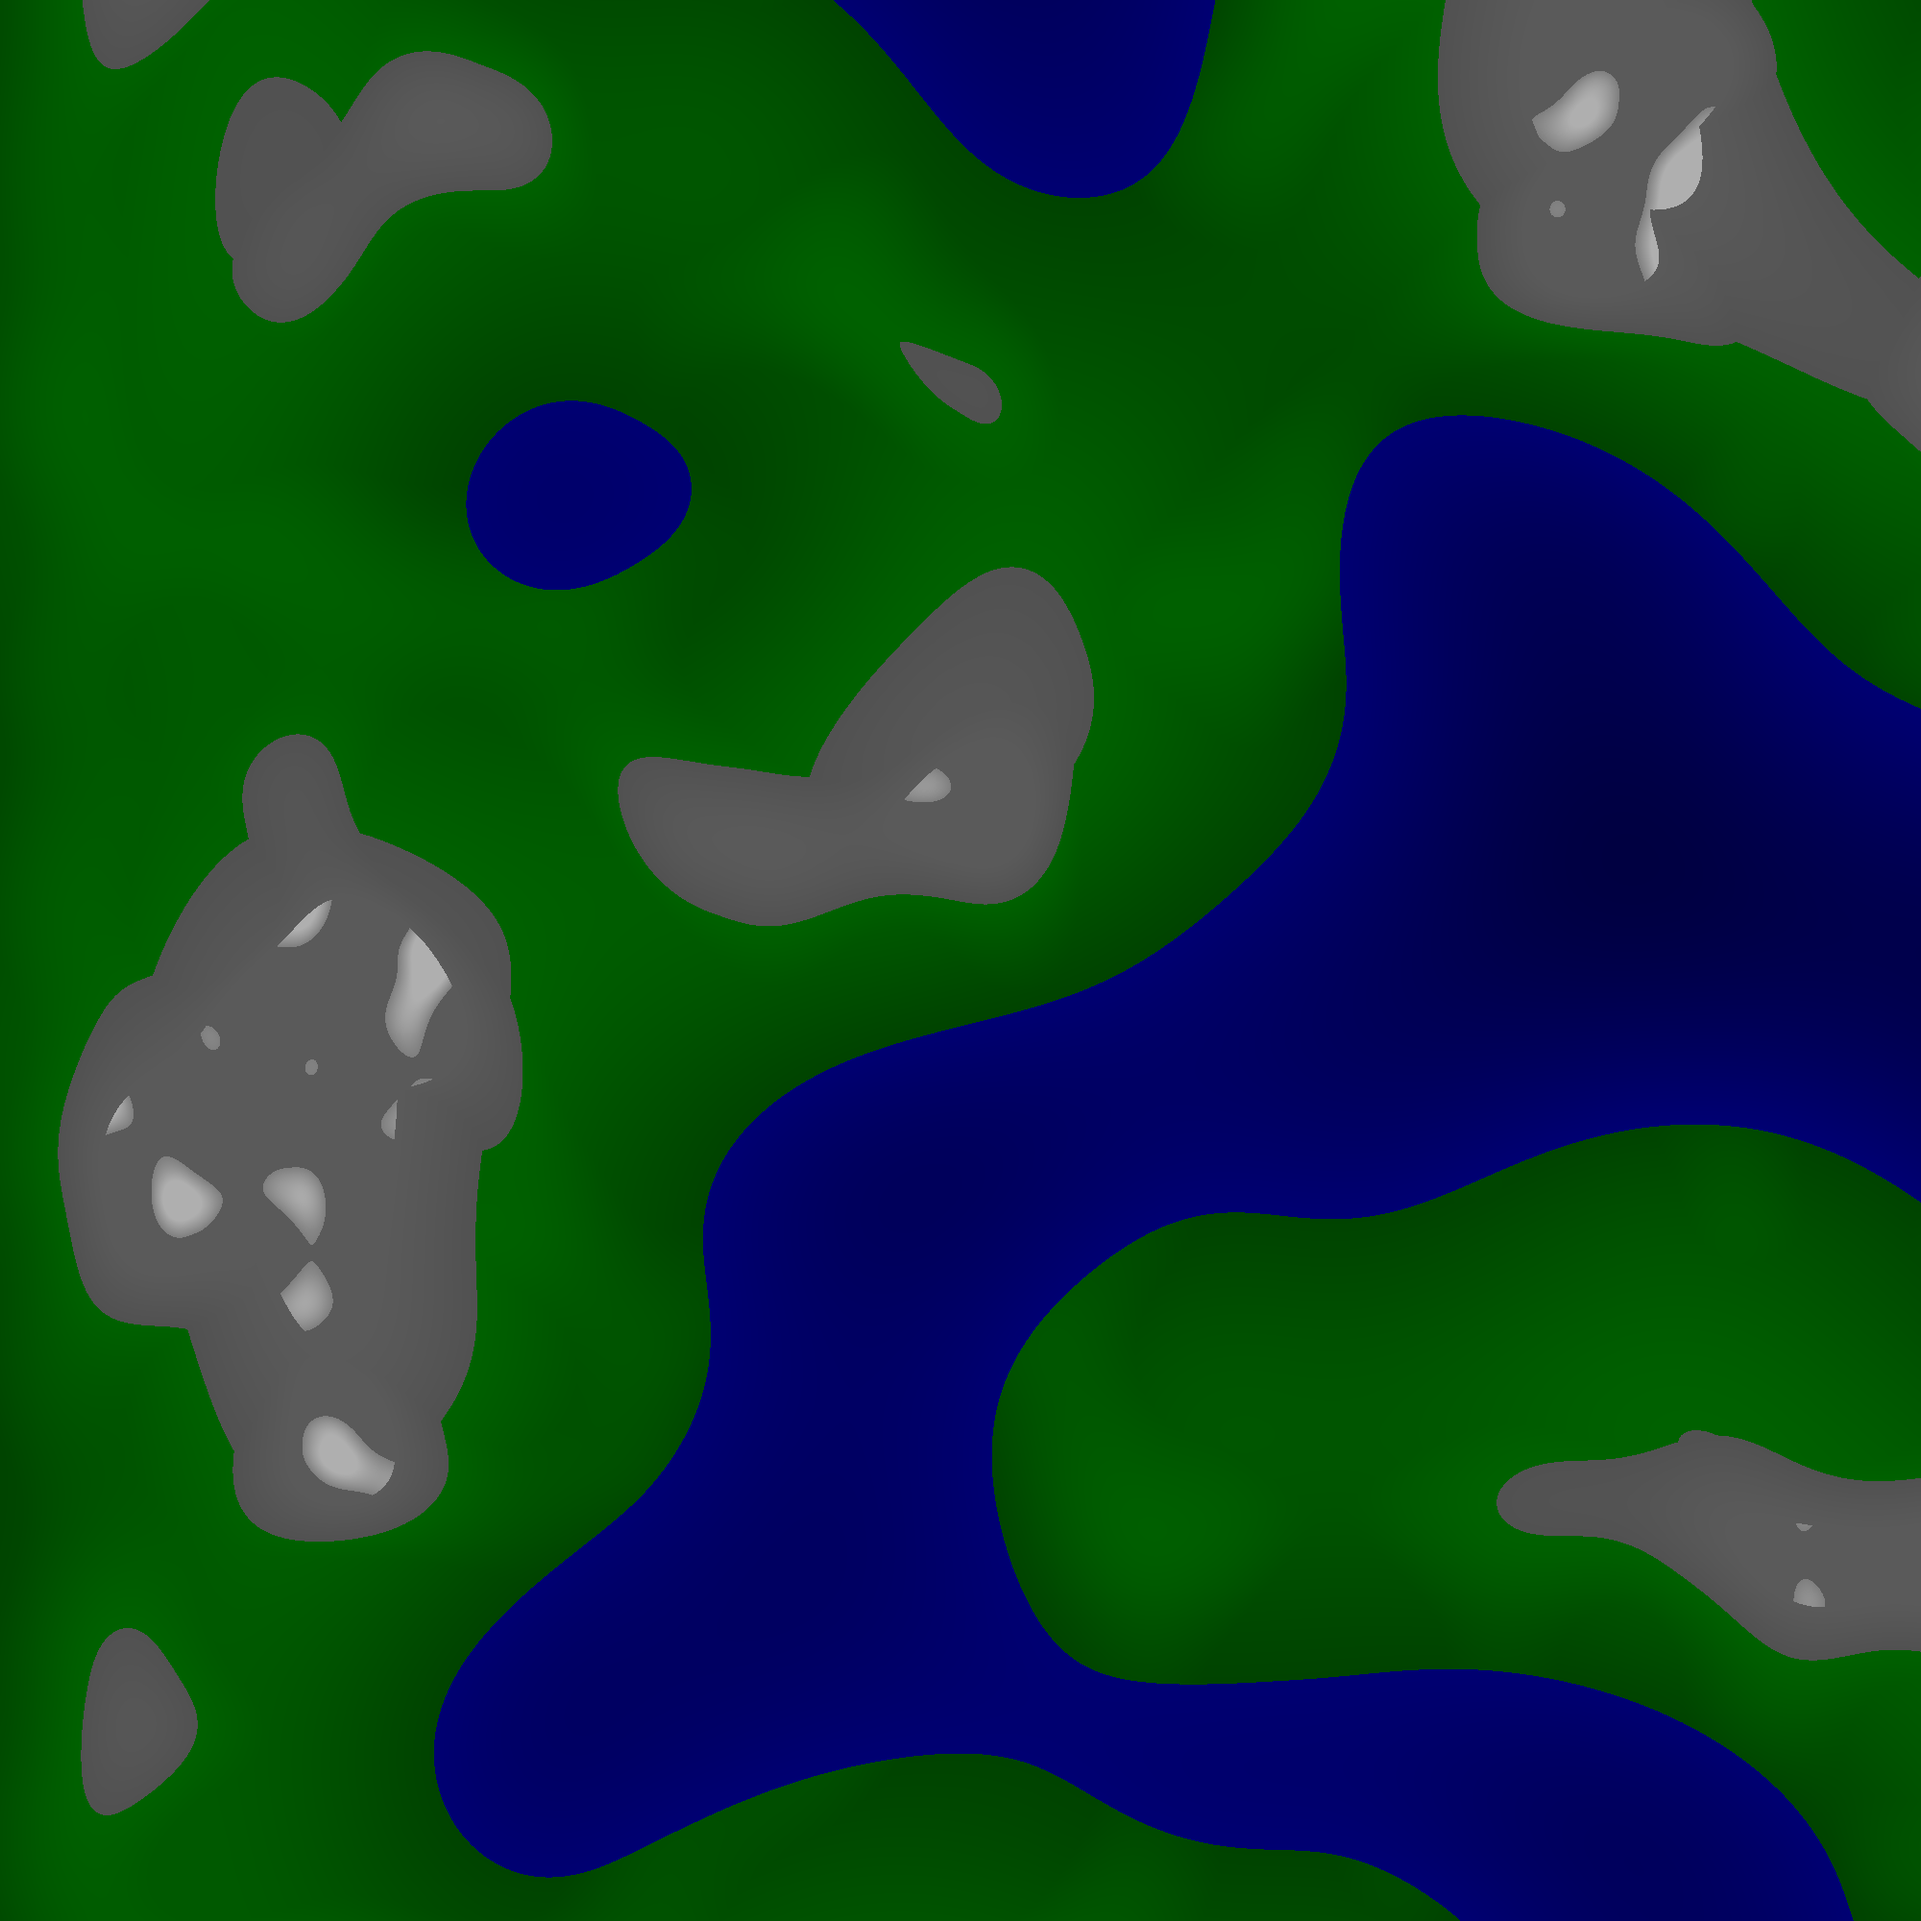
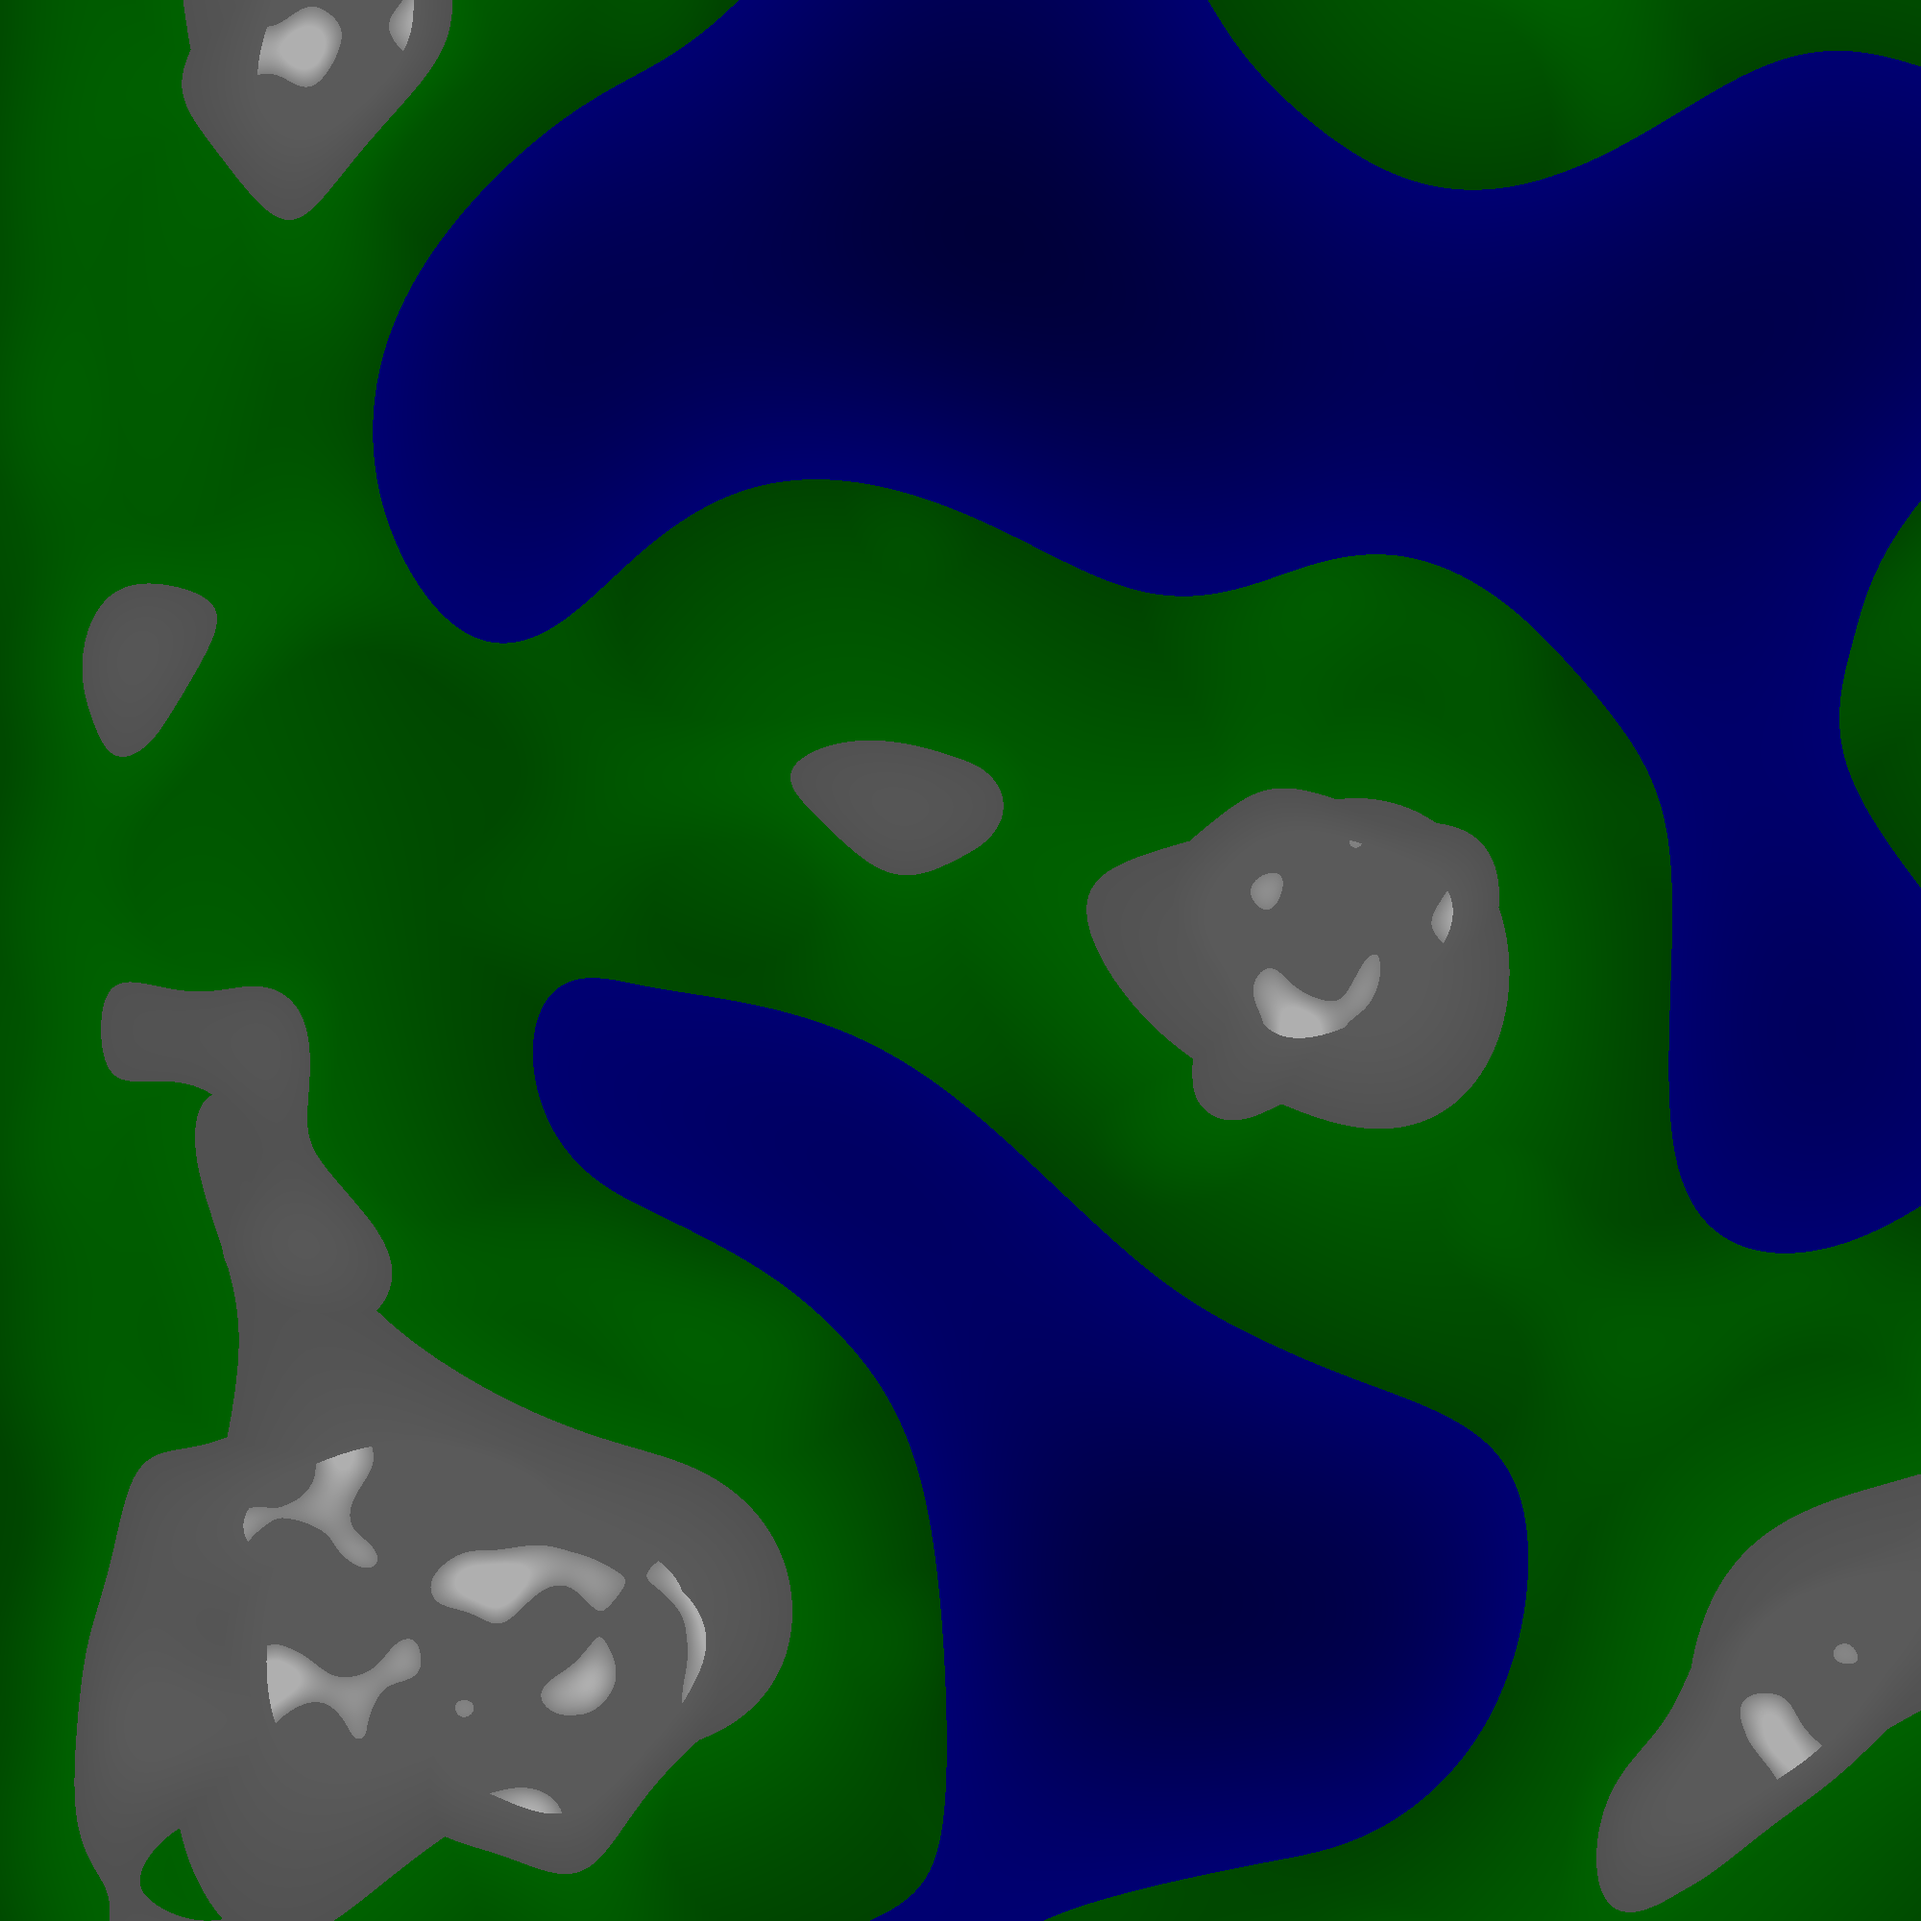
ClientCommunicator

diff --git a/Backend/ClientCommunicator.cs b/Backend/ClientCommunicator.cs
@@ -6,7 +6,109 @@ using System.Threading.Tasks;
 
 namespace JuniorProject.Backend
 {
-	internal class ClientCommunicator
+	public class ClientCommunicator
 	{
+		static ClientCommunicator _clientCommunicator;
+		static ClientCommunicator communicator { 
+			get { 
+				_clientCommunicator ??= new ClientCommunicator();
+				return _clientCommunicator;
+			} 
+		}
+		public delegate void Callback();
+		public delegate void CallbackDone(ref bool done);
+
+		struct CallingBundle
+		{
+			public string name;
+			public unsafe bool* done;
+
+			public CallingBundle(string name)
+			{
+				this.name = name;
+				unsafe { done = null; }
+			}
+
+		}
+
+		private Dictionary<string, Callback> registeredActions;
+		private Queue<CallingBundle> callingQue;
+
+
+		private ClientCommunicator()
+		{
+			registeredActions = new Dictionary<string, Callback>();
+			callingQue = new Queue<CallingBundle>();
+		}
+
+		public static void RegisterAction(string name, Callback c)
+		{
+			lock(communicator.registeredActions)
+			{
+				communicator.registeredActions.Add(name, c);
+			}
+		}
+
+		public static void UnregisterAction(string name)
+		{
+			if (!communicator.registeredActions.ContainsKey(name)) return;
+			lock(communicator.registeredActions)
+			{
+				communicator.registeredActions.Remove(name);
+			}
+		}
+
+		static void _CallAction(CallingBundle calling)
+		{
+			if(!communicator.registeredActions.ContainsKey(calling.name))
+			{
+				Console.WriteLine($"{calling.name} was attempted to be called in _CallAction, but there is no callback registered with that name.");
+				return;
+			}
+			lock(communicator.callingQue)
+			{
+				communicator.callingQue.Enqueue(calling); //Queues the action by name;
+			}
+		}
+
+		public static void CallAction(string name)
+		{
+			CallingBundle calling = new CallingBundle(name);
+			_CallAction(calling);
+		}
+
+		public static void CallActionWaitFor(string name)
+		{
+			CallingBundle calling = new CallingBundle(name);
+			unsafe
+			{
+				
+				bool finished = false;
+				lock (communicator.callingQue)
+				{
+					calling.done = &finished;
+					_CallAction(calling);
+				}
+				while (!(finished)) ;
+			}
+		}
+
+		public static void ProcessActions()
+		{
+			if (communicator.callingQue.Count() == 0) return;
+			lock(communicator.callingQue)
+			{
+				CallingBundle c = communicator.callingQue.Dequeue();
+				communicator.registeredActions[c.name].Invoke();
+				unsafe
+				{
+					if(c.done != null)
+					{
+						*c.done = true;
+					}
+				}
+			}
+		}
+
 	}
 }

diff --git a/Backend/BackendMain.cs b/Backend/BackendMain.cs
@@ -12,7 +12,7 @@ namespace JuniorProject.Backend
 	{
 
 		World mainWorld;
-
+		bool running = true;
 
 		public void BackendStart()
 		{
@@ -21,8 +21,30 @@ namespace JuniorProject.Backend
 			Thread.CurrentThread.Name = "backend";
 			DatabaseManager.LoadDB("LocalData\\BackendDatabase.db");
 			mainWorld = new World();
-			
+
+			MainLoop();
+		}
+
+		public void MainLoop()
+		{
+			ClientCommunicator.RegisterAction("EndMainLoop", () => { 
+				running = false;
+				Console.WriteLine("EndMainLoop was called.");
+			}); //Register an action to be called by the frontend that sets running to false;
+			Console.WriteLine("MainLoop Started.");
+			while ( running )
+			{
+				ClientCommunicator.ProcessActions();
+			}
+
 
 		}
+
+
+
+
+
+
+
 	}
 }

diff --git a/Frontend/Pages/Simulation.xaml.cs b/Frontend/Pages/Simulation.xaml.cs
@@ -9,6 +9,7 @@ using System.Windows.Media;
 using System.Windows.Media.Imaging;
 using System.Windows.Navigation;
 using System.IO;
+using JuniorProject.Backend;
 
 namespace JuniorProject
 {
@@ -33,6 +34,7 @@ namespace JuniorProject
 
         private void RefreshClicked(object sender, RoutedEventArgs e)
         {
+            ClientCommunicator.CallActionWaitFor("RegenerateWorld");
             LoadImage();
         }
 

diff --git a/Frontend/FrontendMain.cs b/Frontend/FrontendMain.cs
@@ -1,5 +1,7 @@
 
 
+using JuniorProject.Backend;
+
 namespace JuniorProject.Frontend
 {
 	internal class FrontendMain
@@ -13,6 +15,10 @@ namespace JuniorProject.Frontend
 			JuniorProject.App app = new JuniorProject.App();
 			app.InitializeComponent();
 			app.Run();
+
+
+			Console.WriteLine("Frontend Closed.");
+			ClientCommunicator.CallAction("EndMainLoop");
 		}
 
 

diff --git a/Properties/Resources.Designer.cs b/Properties/Resources.Designer.cs
@@ -61,7 +61,7 @@ namespace JuniorProject.Properties {
         }
         
         /// <summary>
-        ///   Looks up a localized string similar to C:\Users\wythe\Desktop\JuniorProject\.
+        ///   Looks up a localized string similar to .
         /// </summary>
         internal static string ProjectDir {
             get {

diff --git a/Backend/WorldData/World.cs b/Backend/WorldData/World.cs
@@ -11,6 +11,8 @@ namespace JuniorProject.Backend.WorldData
 		{
 			map = new Map();
 			map.GenerateWorld();
+			ClientCommunicator.RegisterAction("RegenerateWorld", map.GenerateWorld);
+
 		}
 
 	}
